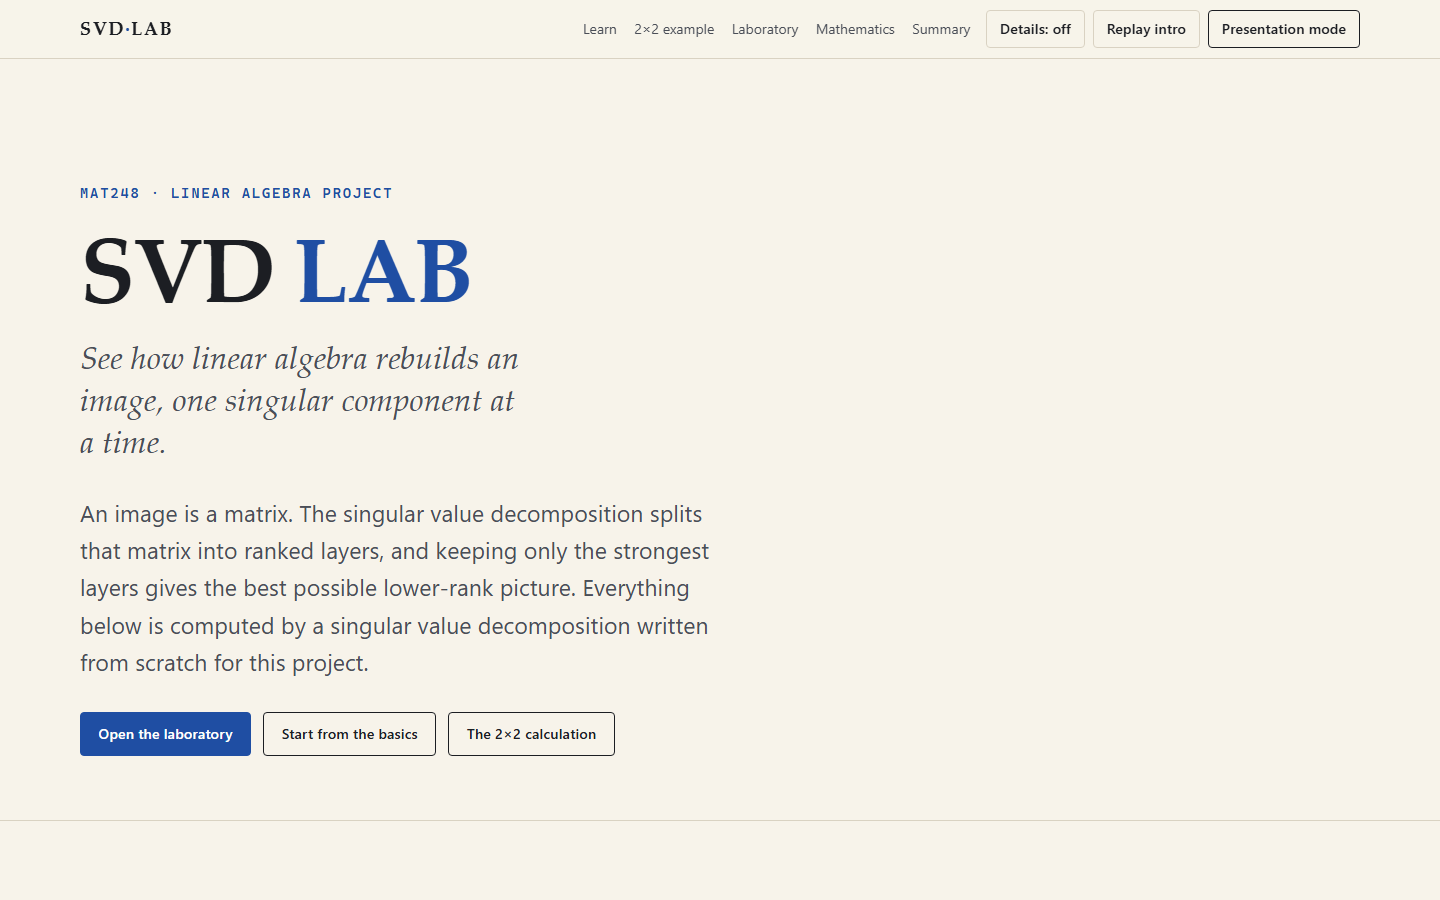
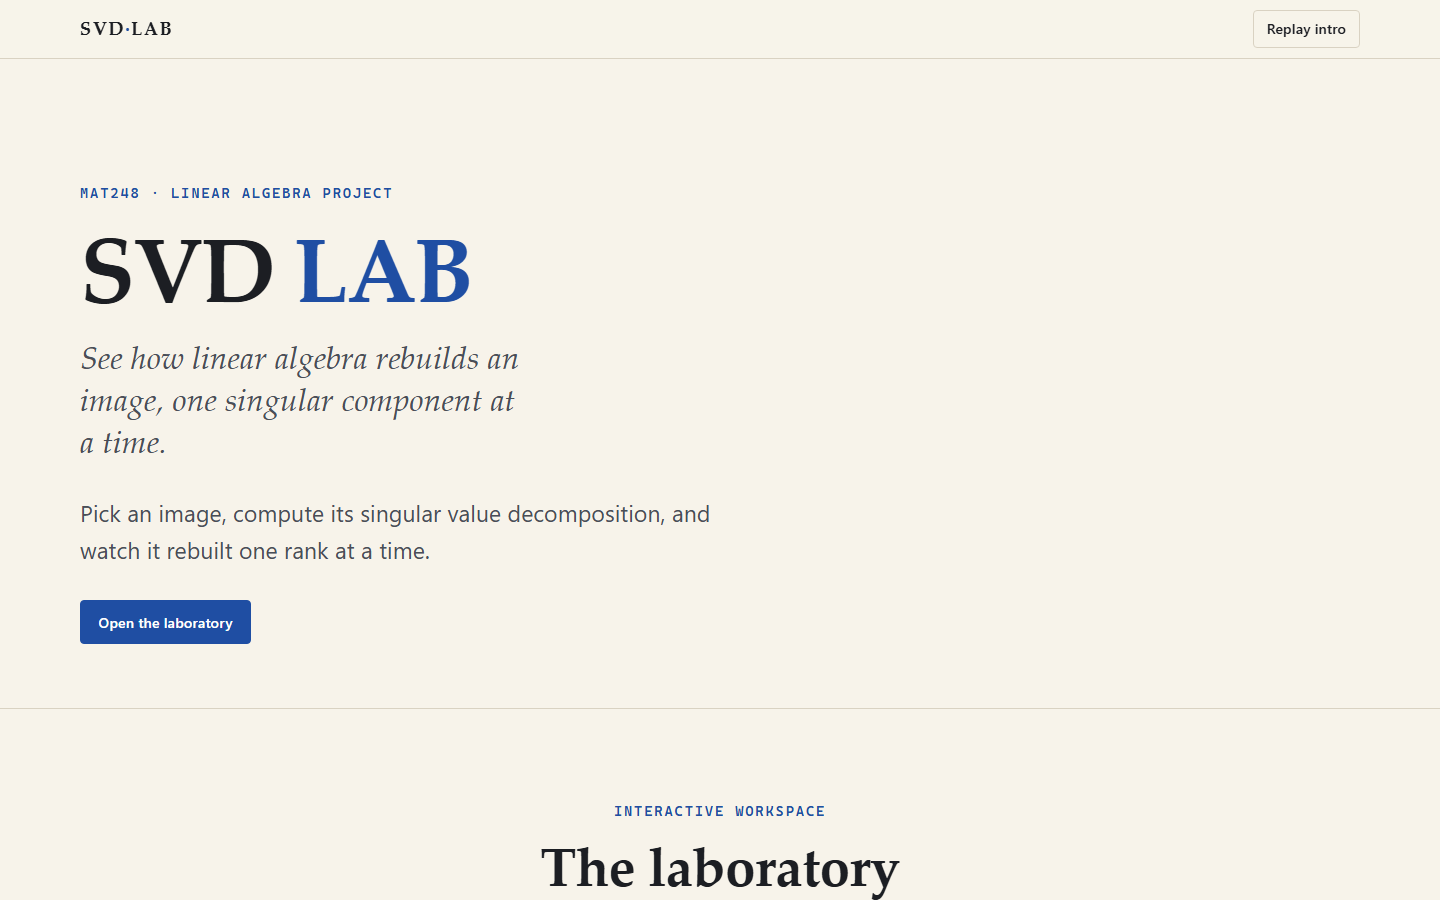
Pixel-to-SVD intro (also on image load), slower rank animation, centred upload layout

diff --git a/svdcomp/static/js/intro.js b/svdcomp/static/js/intro.js
@@ -1,172 +1,74 @@
-/* Cinematic introduction (about 3.5 s). Canvas 2D, deterministic, no network, no SVD in the browser:
- * the face rebuild plays through the pre-baked rank-k table in anim/faceData.js. */
-import { $, reducedMotion } from "./core.js";
+/* Pixel intro (about 3.6 s). A field of grey pixels drifts in, then organises itself into the letters S, V, D,
+ * and the overlay fades to reveal the page. Also played when an image is loaded ("upload" mode).
+ * Canvas 2D, deterministic, no network, no SVD in the browser. */
+import { $, on, reducedMotion } from "./core.js";
 import { createPlayer, lerp, seg } from "./anim/player.js";
-import { FACE_RANKS, FACE_SIGMA, faceRank } from "./anim/faceData.js";
 
 const W = 640, H = 360;
-const DURATION = 3.5, FADE_MS = 400;
+const DURATION = 4.0, FADE_MS = 450;
 const KEY = "svdlab-intro-seen";
-const BG = "#15171c", PAPER = "#f7f3ea", COBALT = "#8fb0ee", VERMILION = "#e0583e";
+const TAG = "An image, rebuilt through linear algebra.";
+const BG = "#15171c";
+let introOff = false;
 
-// ---------- deterministic scene data ----------
 function rng(seed) { // mulberry32
   let a = seed;
   return () => { a |= 0; a = (a + 0x6d2b79f5) | 0; let t = Math.imul(a ^ (a >>> 15), 1 | a); t = (t + Math.imul(t ^ (t >>> 7), 61 | t)) ^ t; return ((t ^ (t >>> 14)) >>> 0) / 4294967296; };
 }
 const rand = rng(248);
-const DUST = Array.from({ length: 220 }, () => ({ x: rand() * W, y: rand() * H, g: 90 + rand() * 120, s: 1.5 + rand() * 1.5, ph: rand() * 6.28 }));
-const rankMemo = {};
-const rankOf = (k) => (rankMemo[k] ||= faceRank(k));
-const FACE16 = rankOf(16);
-const GRID = 6, CELL = 34, GAP = 4, GCX = 320, GCY = 178;
-// A 6x6 patch of the face picture (rows 3-8, cols 3-8) is the "matrix".
-const CELLS = [];
-for (let i = 0; i < GRID; i++) for (let j = 0; j < GRID; j++) {
-  CELLS.push({ i, j, v: FACE16[(3 + i) * 16 + 3 + j], sx: rand() * W, sy: rand() * H,
-               u: 0.15 + 0.8 * rand(), w: 0.15 + 0.8 * rand() });
-}
-const SIG = FACE_SIGMA.filter((s) => s > 1).slice(0, 6);
-const SMAX = SIG[0];
-const BLOCKS = [{ id: "U", cx: 112 }, { id: "S", cx: 320 }, { id: "V", cx: 528 }];
 
-const gray = (v, a = 1) => `rgba(${v | 0},${v | 0},${v | 0},${a})`;
-
-function label(ctx, x, y, main, sup, size, color, a) {
-  ctx.save(); ctx.globalAlpha = a; ctx.fillStyle = color; ctx.textBaseline = "alphabetic";
-  ctx.font = `600 ${size}px "Iowan Old Style", Palatino, Georgia, serif`;
-  const w = ctx.measureText(main).width;
-  let sw = 0;
-  if (sup) { ctx.font = `600 ${size * 0.6}px "Iowan Old Style", Palatino, Georgia, serif`; sw = ctx.measureText(sup).width; }
-  const x0 = x - (w + sw) / 2;
-  ctx.font = `600 ${size}px "Iowan Old Style", Palatino, Georgia, serif`;
-  ctx.fillText(main, x0, y);
-  if (sup) { ctx.font = `600 ${size * 0.6}px "Iowan Old Style", Palatino, Georgia, serif`; ctx.fillText(sup, x0 + w + 1, y - size * 0.4); }
-  ctx.restore();
-}
-function caption(ctx, text, a) {
-  ctx.save(); ctx.globalAlpha = a; ctx.fillStyle = "#d8d3c6"; ctx.textAlign = "center";
-  ctx.font = '500 15px "Cascadia Mono", Consolas, Menlo, monospace';
-  ctx.fillText(text, W / 2, 44); ctx.restore();
-}
-
-/** Pixel values of the face after k components, cross-faded through the pre-baked ranks. */
-function facePixels(p) { // p in [0, 1] across FACE_RANKS
-  const x = p * (FACE_RANKS.length - 1), a = Math.min(FACE_RANKS.length - 2, Math.floor(x)), f = x - a;
-  const A = rankOf(FACE_RANKS[a]), B = rankOf(FACE_RANKS[a + 1]);
-  return { px: A.map((v, i) => lerp(v, B[i], f)), k: FACE_RANKS[f > 0.5 ? a + 1 : a] };
-}
-
-function drawBlock(ctx, kind, cx, cy, cell, a) {
-  const gap = 2, span = GRID * (cell + gap) - gap, x0 = cx - span / 2, y0 = cy - span / 2;
-  ctx.save(); ctx.globalAlpha = a;
-  for (let i = 0; i < GRID; i++) for (let j = 0; j < GRID; j++) {
-    const x = x0 + j * (cell + gap), y = y0 + i * (cell + gap);
-    if (kind === "S") {
-      if (i === j) { const s = SIG[i] / SMAX; ctx.fillStyle = `rgba(143,176,238,${0.35 + 0.65 * Math.sqrt(s)})`; ctx.fillRect(x, y, cell, cell); }
-      else { ctx.fillStyle = "#23262d"; ctx.fillRect(x, y, cell, cell); }
-    } else {
-      const c = CELLS[i * GRID + j], t = kind === "U" ? c.u : c.w, g = 60 + 150 * t;
-      ctx.fillStyle = gray(g); ctx.fillRect(x, y, cell, cell);
-    }
-  }
-  ctx.restore();
+// 5 x 7 pixel font for the three letters
+const FONT = {
+  S: ["01111", "10000", "10000", "01110", "00001", "00001", "11110"],
+  V: ["10001", "10001", "10001", "10001", "01010", "01010", "00100"],
+  D: ["11110", "10001", "10001", "10001", "10001", "10001", "11110"],
+};
+const CELL = 21, PIX = 17, COLS = 17;
+const X0 = (W - COLS * CELL) / 2 + (CELL - PIX) / 2, Y0 = 92;
+const TARGETS = [];
+"SVD".split("").forEach((ch, li) => FONT[ch].forEach((row, r) => [...row].forEach((bit, c) => {
+  if (bit === "1") TARGETS.push({ x: X0 + (li * 6 + c) * CELL, y: Y0 + r * CELL, word: li });
+})));
+const N_DUST = 230;
+const PIXELS = [];
+for (let i = 0; i < TARGETS.length + N_DUST; i++) {
+  const target = TARGETS[i] || null;
+  PIXELS.push({
+    x: rand() * (W - PIX), y: rand() * (H - PIX), g: 70 + rand() * 130, size: 6 + rand() * 9,
+    delay: rand() * 0.55, tx: target?.x, ty: target?.y, lit: !!target, fade: 0.1 + rand() * 0.5,
+    dx: (rand() - 0.5) * 40, dy: (rand() - 0.5) * 40,
+  });
 }
 
 function draw(ctx, t) {
   ctx.fillStyle = BG; ctx.fillRect(0, 0, W, H);
-  const field = seg(t, 0, 0.35), toGrid = seg(t, 0.45, 0.95), split = seg(t, 0.95, 1.45);
-  const bars = seg(t, 1.55, 2.0), face = seg(t, 2.15, 2.9);
-
-  // dust: the first "field of pixels"
-  const dustA = field * (1 - seg(t, 0.4, 0.95)) * 0.9;
-  if (dustA > 0.01) {
-    for (const d of DUST) {
-      ctx.fillStyle = gray(d.g, dustA);
-      ctx.fillRect(d.x + Math.sin(t * 2 + d.ph) * 2, d.y + Math.cos(t * 1.7 + d.ph) * 2, d.s, d.s);
+  const appear = (p) => seg(t, p.delay * 0.9, p.delay * 0.9 + 0.5);      // 0 - 1.1 s: the field fades in
+  const gather = (p) => seg(t, 1.3 + p.delay * 0.6, 2.5 + p.delay * 0.4); // 1.3 - 2.9 s: pixels organise
+  for (const p of PIXELS) {
+    const a = appear(p), g = gather(p);
+    const drift = (1 - g) * Math.sin(t * 1.6 + p.delay * 9);
+    if (p.lit) {
+      const x = lerp(p.x + p.dx * drift, p.tx, g), y = lerp(p.y + p.dy * drift, p.ty, g), size = lerp(p.size, PIX, g);
+      const v = lerp(p.g, 247, g), shade = Math.round(v);
+      ctx.fillStyle = g > 0.98 ? "#f7f3ea" : `rgb(${shade},${shade},${Math.round(lerp(v, 255, g))})`;
+      ctx.globalAlpha = Math.min(1, a + g);
+      ctx.fillRect(x, y, size, size);
+      if (g > 0.98) { // settled letters pick up the accent colour from left to right
+        const glow = seg(t, 2.7 + p.word * 0.15, 3.1 + p.word * 0.15);
+        if (glow > 0) { ctx.globalAlpha = glow; ctx.fillStyle = "#8fb0ee"; ctx.fillRect(x, y, size, size); }
+      }
+    } else {
+      const x = p.x + p.dx * drift + g * p.dx * 3, y = p.y + p.dy * drift + g * p.dy * 3;
+      ctx.fillStyle = `rgb(${p.g | 0},${p.g | 0},${p.g | 0})`;
+      ctx.globalAlpha = a * (1 - seg(t, 1.5 + p.fade, 2.6 + p.fade)) * 0.9;
+      ctx.fillRect(x, y, p.size, p.size);
     }
   }
-
-  // matrix cells: appear as tiny pixels, organise into a grid, then split
-  const aliveA = field * (1 - seg(t, 0.95, 1.25));
-  if (aliveA > 0.01) {
-    const s = lerp(5, CELL, toGrid);
-    const k = lerp(1, 0.85, split);
-    for (const c of CELLS) {
-      const tx = GCX + (c.j - (GRID - 1) / 2) * (CELL + GAP) * k, ty = GCY + (c.i - (GRID - 1) / 2) * (CELL + GAP) * k;
-      const x = lerp(c.sx, tx, toGrid), y = lerp(c.sy, ty, toGrid), sz = s * k;
-      ctx.fillStyle = gray(70 + 0.65 * c.v, aliveA); // lifted so dark pixels stay visible on the dark stage
-      ctx.fillRect(x - sz / 2, y - sz / 2, sz, sz);
-    }
-  }
-  if (toGrid > 0.9 && t < 1.5) { // brackets of the matrix + name
-    const w = GRID * (CELL + GAP) / 2 + 10, a = seg(t, 0.8, 1.0) * (1 - seg(t, 1.05, 1.3));
-    ctx.save(); ctx.globalAlpha = a; ctx.strokeStyle = PAPER; ctx.lineWidth = 2;
-    for (const sgn of [-1, 1]) { const x = GCX + sgn * w; ctx.beginPath(); ctx.moveTo(x - sgn * 8, GCY - w + 6); ctx.lineTo(x, GCY - w + 6); ctx.lineTo(x, GCY + w - 6); ctx.lineTo(x - sgn * 8, GCY + w - 6); ctx.stroke(); }
-    ctx.restore();
-    label(ctx, GCX, GCY + w + 28, "A", "", 26, PAPER, a);
-  }
-
-  // three blocks U, Sigma, V^T
-  const blockA = split * (1 - seg(t, 1.55, 1.85));
-  if (blockA > 0.01) {
-    const cell = lerp(30, 17, split);
-    for (const b of BLOCKS) {
-      const cx = lerp(GCX, b.cx, split), cy = 172;
-      drawBlock(ctx, b.id, cx, cy, cell, blockA);
-      const sup = b.id === "V" ? "T" : "";
-      label(ctx, cx, 262, b.id === "S" ? "Σ" : b.id, sup, 30, b.id === "S" ? COBALT : PAPER, blockA * seg(t, 1.2, 1.45));
-    }
-    const sym = seg(t, 1.3, 1.55) * (1 - seg(t, 1.55, 1.85));
-    label(ctx, 216, 183, "×", "", 30, "#d8d3c6", sym);
-    label(ctx, 424, 183, "×", "", 30, "#d8d3c6", sym);
-    label(ctx, W / 2, 98, "A = U Σ V", "T", 26, PAPER, sym);
-  }
-
-  // singular values, largest first
-  const baseY = lerp(280, 336, seg(t, 2.1, 2.45)), scale = lerp(1, 0.3, seg(t, 2.1, 2.45));
-  const barA = bars * (face > 0 ? lerp(1, 0.9, face) : 1);
-  const fp = facePixels(face);
-  if (barA > 0.01) {
-    const bw = 40, gp = 16, x0 = W / 2 - (SIG.length * (bw + gp) - gp) / 2;
-    SIG.forEach((s, i) => {
-      const grow = seg(t, 1.55 + i * 0.05, 1.95 + i * 0.05);
-      const h = (s / SMAX) * 150 * grow * scale, x = x0 + i * (bw + gp);
-      const used = face > 0 && i < fp.k;
-      ctx.fillStyle = used ? VERMILION : COBALT;
-      ctx.globalAlpha = barA * (face > 0 ? (used ? 1 : 0.45) : 1);
-      ctx.fillRect(x, baseY - h, bw, h);
-      ctx.globalAlpha = barA * 0.9;
-      if (face <= 0.01) label(ctx, x + bw / 2, baseY + 22, "σ", String(i + 1), 18, "#d8d3c6", barA);
-    });
-    ctx.globalAlpha = 1;
-    ctx.fillStyle = "#d8d3c6"; ctx.globalAlpha = barA * 0.5; ctx.fillRect(x0 - 8, baseY, SIG.length * (bw + gp) - gp + 16, 1); ctx.globalAlpha = 1;
-  }
-
-  // the rebuilt picture, from the pre-baked rank-1..16 reconstructions
-  if (face > 0.01) {
-    const cs = 11, x0 = W / 2 - 8 * cs, y0 = 78;
-    ctx.globalAlpha = Math.min(1, face * 3);
-    for (let r = 0; r < 16; r++) for (let c = 0; c < 16; c++) {
-      ctx.fillStyle = gray(Math.max(0, Math.min(255, fp.px[r * 16 + c])));
-      ctx.fillRect(x0 + c * cs, y0 + r * cs, cs, cs);
-    }
-    ctx.globalAlpha = 1;
-    ctx.save(); ctx.fillStyle = "#d8d3c6"; ctx.textAlign = "center"; ctx.font = '500 14px "Cascadia Mono", Consolas, Menlo, monospace';
-    ctx.fillText(`rank k = ${fp.k}`, W / 2, y0 + 16 * cs + 24); ctx.restore();
-  }
-
-  // scene caption
-  const cap = t < 0.45 ? "Pixels" : t < 0.95 ? "become a matrix" : t < 1.55 ? "which factors" : t < 2.15 ? "singular values, largest first" : t < 2.9 ? "and rebuild the picture" : "";
-  if (cap) caption(ctx, cap, 0.85);
-
-  // closing veil: the title card is DOM text above the canvas
-  const veil = seg(t, 2.9, 3.3) * 0.88;
-  if (veil > 0) { ctx.fillStyle = `rgba(21,23,28,${veil})`; ctx.fillRect(0, 0, W, H); }
+  ctx.globalAlpha = 1;
 }
 
 // ---------- overlay control ----------
-let overlay, skipBtn, titleEl, ctx, player = null, active = false, lastFocus = null, endTimer = 0, onKey = null, onHide = null;
+let curMode = "intro", overlay, skipBtn, titleEl, tagEl, ctx, player = null, active = false, lastFocus = null, endTimer = 0, onKey = null, onHide = null;
 
 function setInert(on) {
   for (const node of Array.from(document.body.children)) {
@@ -193,13 +95,16 @@ function finish() {
     const back = lastFocus && document.contains(lastFocus) && lastFocus !== document.body ? lastFocus : (() => {
       const top = $("#top") || document.body; if (!top.hasAttribute("tabindex")) top.setAttribute("tabindex", "-1"); return top;
     })();
+    if (curMode === "upload") { $("#lab-analysis")?.scrollIntoView({ behavior: reducedMotion() ? "auto" : "smooth", block: "start" }); return; }
     try { back.focus({ preventScroll: false }); } catch { /* ignore */ }
   };
   if (reducedMotion()) done(); else setTimeout(done, FADE_MS);
 }
 
-export function playIntro({ force = false } = {}) {
+export function playIntro({ force = false, mode = "intro" } = {}) {
   if (!overlay) return;
+  curMode = mode;
+  tagEl.textContent = mode === "upload" ? "Analysing your image…" : TAG;
   if (active) return; // already playing (the page underneath is inert)
   const reduced = reducedMotion();
   if (reduced && !force) return;
@@ -240,13 +145,15 @@ export function playIntro({ force = false } = {}) {
 }
 
 export function init() {
-  overlay = $("#intro"); skipBtn = $("#intro-skip"); titleEl = $("#intro-title");
+  overlay = $("#intro"); skipBtn = $("#intro-skip"); titleEl = $("#intro-title"); tagEl = $("#intro-tag");
   if (!overlay || !skipBtn) return;
   const canvas = $("#intro-canvas");
   ctx = canvas.getContext("2d");
   skipBtn.addEventListener("click", finish);
   let seen = false;
   try { seen = sessionStorage.getItem(KEY) === "1"; } catch { /* ignore */ }
-  const off = new URLSearchParams(location.search).get("intro") === "0";
-  if (!seen && !off) playIntro();
+  introOff = new URLSearchParams(location.search).get("intro") === "0";
+  if (!seen && !introOff) playIntro();
+  // Every loaded image (upload or sample) gets the pixel animation before the output is shown.
+  on("lab:image", () => { if (!introOff) playIntro({ mode: "upload" }); });
 }

diff --git a/svdcomp/static/css/intro.css b/svdcomp/static/css/intro.css
@@ -7,12 +7,12 @@
 .intro.is-leaving { opacity: 0; }
 .intro__stage { position: relative; width: min(94vw, 960px); aspect-ratio: 16 / 9; }
 .intro__canvas { display: block; width: 100%; height: 100%; background: #15171c; }
-.intro__title { position: absolute; inset: 0; display: grid; place-content: center; text-align: center; opacity: 0;
-                pointer-events: none; padding: 0 1rem; }
+.intro__title { position: absolute; inset: 0; display: grid; place-content: end center; text-align: center; opacity: 0;
+                pointer-events: none; padding: 0 1rem 9%; }
 .intro__title.is-on { opacity: 1; transition: opacity .4s var(--ease); }
 .intro__brand { font: 700 clamp(2.6rem, 9vw, 5.6rem)/1 var(--font-display); letter-spacing: .06em; margin: 0 0 .3em; max-width: none; }
 .intro__brand span { color: #8fb0ee; }
-.intro__tag { font: italic clamp(1rem, 2.6vw, 1.6rem)/1.3 var(--font-display); color: #e7e1d3; margin: 0 auto; }
+.intro__tag { font: italic clamp(.95rem, 2.4vw, 1.5rem)/1.3 var(--font-display); color: #e7e1d3; margin: 0 auto; }
 .intro__note { font: 500 .78rem/1.4 var(--font-mono); color: #b9b6ae; margin: 0; text-align: center; max-width: 60ch; }
 .intro__skip { position: absolute; right: clamp(.75rem, 3vw, 2rem); bottom: clamp(.75rem, 3vw, 2rem); background: transparent;
                color: #f7f3ea; border-color: #f7f3ea; }
@@ -23,3 +23,7 @@
 .intro.is-static .intro__title { opacity: 1; transition: none; }
 .intro.is-static, .intro.is-static .intro__title { transition: none; }
 body.intro-lock { overflow: hidden; }
+.intro__brand { display: none; font: 700 clamp(2.6rem, 9vw, 5.6rem)/1 var(--font-display); letter-spacing: .06em; margin: 0 0 .3em; max-width: none; }
+.intro__brand span { color: #8fb0ee; }
+.intro.is-static .intro__brand { display: block; }
+.intro.is-static .intro__title { place-content: center; padding-bottom: 0; }

diff --git a/svdcomp/static/css/workspace.css b/svdcomp/static/css/workspace.css
@@ -197,3 +197,23 @@
 }
 
 #lab [hidden] { display: none !important; }
+
+/* ---------- centred layout: upload in the middle, controls at the side, charts and results below ---------- */
+#lab > .wrap > header { text-align: center; margin-inline: auto; }
+#lab > .wrap > header p { margin-inline: auto; }
+.lab-input, #lab.is-loaded .lab-input { display: grid; grid-template-columns: minmax(0, 1fr); justify-items: center; gap: 2.5rem;
+                                       max-width: 64rem; margin-inline: auto; }
+.lab-drop-col { width: min(100%, 42rem); }
+.lab-drop-col .lab-step, .lab-gallery-col .lab-step { text-align: center; }
+.lab-drop { min-height: 13rem; border-radius: 6px; }
+#lab.is-loaded .lab-drop { min-height: 5rem; }
+.lab-input-row { justify-content: center; }
+.lab-meta { max-width: 26rem; margin-inline: auto; }
+.lab-meta-notes { margin-inline: auto; text-align: center; }
+.lab-gallery-col { width: 100%; }
+.lab-gallery, #lab.is-loaded .lab-gallery { grid-template-columns: repeat(auto-fit, minmax(8.5rem, 1fr)); }
+.lab-analysis { margin-top: 3rem; }
+.lab-side { position: sticky; top: 4.5rem; align-self: start; }
+.lab-charts { margin-top: 3rem; }
+@media (max-width: 1000px) { .lab-side { position: static; } }
+.lab-drop-col .lab-step, .lab-gallery-col .lab-step { justify-content: center; }

diff --git a/svdcomp/templates/_intro.html b/svdcomp/templates/_intro.html
@@ -3,13 +3,10 @@
     <canvas class="intro__canvas" id="intro-canvas" width="640" height="360" aria-hidden="true"></canvas>
     <div class="intro__title" id="intro-title">
       <p class="intro__brand">SVD<span> LAB</span></p>
-      <p class="intro__tag">An image, rebuilt through linear algebra.</p>
+      <p class="intro__tag" id="intro-tag">An image, rebuilt through linear algebra.</p>
     </div>
   </div>
-  <p class="intro__note">Illustration: a 6&times;6 example, not your image. A 16&times;16 picture rebuilt from its first
-    singular components.</p>
-  <p class="sr-only">Animated introduction: grey pixels organise into a matrix, the matrix splits into three factors
-    U, Sigma and V transpose, the singular values line up from largest to smallest, and a small picture is rebuilt from
-    a growing number of components. Press Skip intro or Escape to go straight to the page.</p>
+  <p class="sr-only">Animated introduction: scattered pixels organise themselves into the letters S V D, then the page opens.
+    Press Skip intro or Escape to go straight to the page.</p>
   <button class="btn intro__skip" id="intro-skip" data-testid="intro-skip" type="button" autofocus>Skip intro</button>
 </div>

diff --git a/svdcomp/static/js/workspace.js b/svdcomp/static/js/workspace.js
@@ -418,7 +418,7 @@ export function init() {
 
   /* ---------- playback ---------- */
   const dwell = () => {
-    const ms = 800 / (+speedSel.value || 1);
+    const ms = 2000 / (+speedSel.value || 1);
     return reducedMotion() ? Math.max(1200, ms) : ms;
   };
   function pause(say = true) {
@@ -452,7 +452,7 @@ export function init() {
     try {
       if (!introSkipped && !introDone) {
         introBox.hidden = false;
-        const d = reducedMotion() ? 2400 : Math.max(900, 1800 / (+speedSel.value || 1));
+        const d = reducedMotion() ? 2400 : Math.max(1500, 3000 / (+speedSel.value || 1));
         for (const li of introItems) {
           introItems.forEach((x) => x.classList.toggle("is-current", x === li));
           await wait(d, ctl.signal);

diff --git a/tests/e2e/test_lab_e2e.py b/tests/e2e/test_lab_e2e.py
@@ -254,3 +254,24 @@ def test_acceptance_run_through(session, tmp_path):
     compute_svd(page, "exact")
     assert [e for e in s.errors] == []
     assert s.external == []
+
+
+def test_intro_plays_again_when_an_image_is_loaded(session):
+    s = session(intro=True)
+    page = s.page
+    tid(page, "intro-skip").click()
+    expect(tid(page, "intro-overlay")).to_be_hidden()
+    tid(page, "sample-tiny-face").click()
+    expect(tid(page, "intro-overlay")).to_be_visible()
+    expect(page.locator("#intro-tag")).to_contain_text("Analysing")
+    tid(page, "intro-skip").click()
+    expect(tid(page, "intro-overlay")).to_be_hidden()
+    expect(page.locator("#image-meta")).to_be_visible()
+    assert s.errors == []
+
+
+def test_no_intro_on_load_when_disabled(session):
+    s = session()
+    tid(s.page, "sample-tiny-face").click()
+    expect(s.page.locator("#image-meta")).to_be_visible(timeout=15000)
+    expect(tid(s.page, "intro-overlay")).to_be_hidden()
